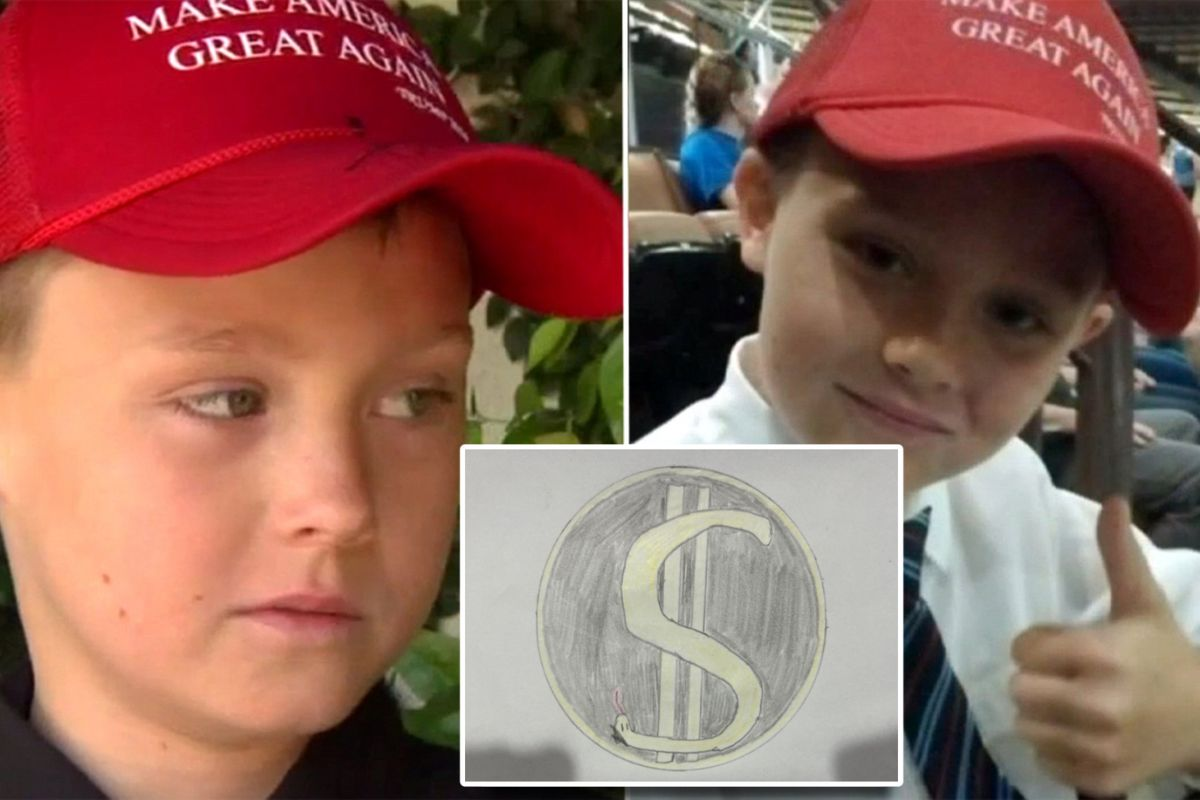
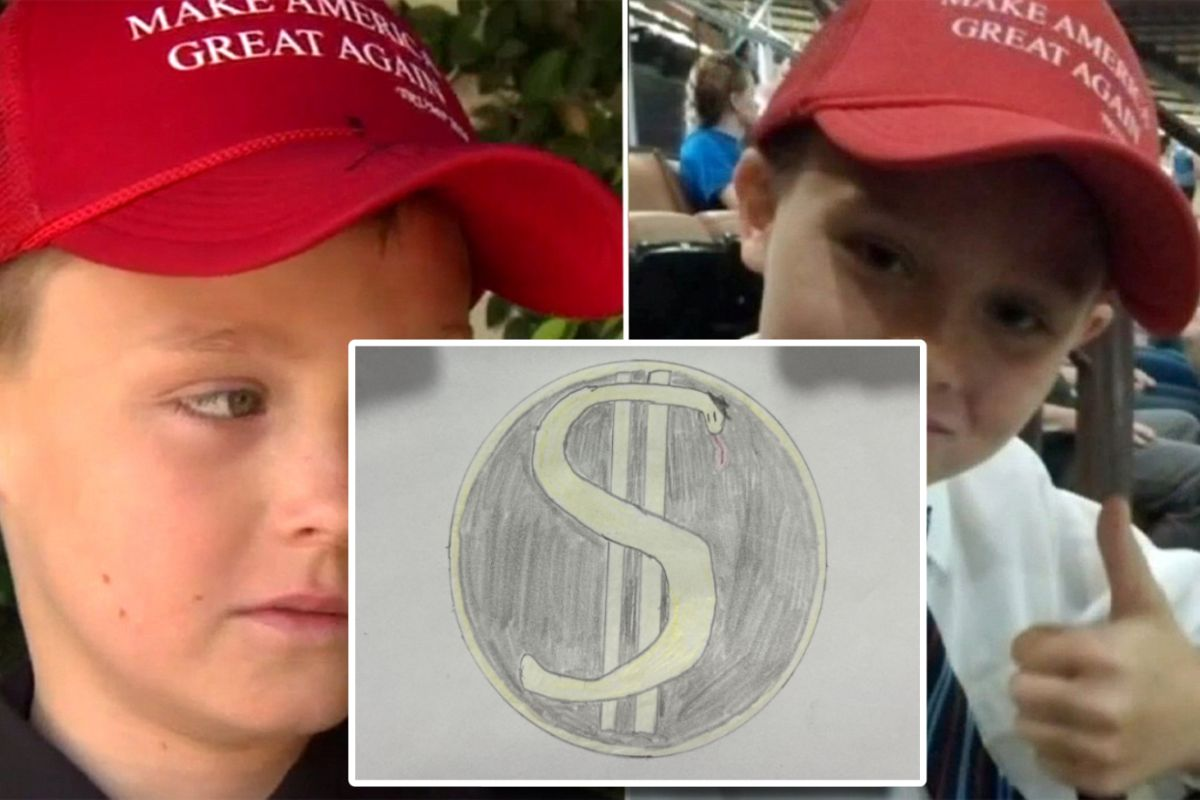
Updated files

Changed region(s): [[0.2775, 0.4062, 0.7708, 1.0]]

diff --git a/auction-for-veterans-logan-autry-drawing/index.html b/auction-for-veterans-logan-autry-drawing/index.html
@@ -556,7 +556,7 @@ gtag("config", "AW-661084922");
 
 		
 		<div class="addtoany_share_save_container addtoany_content addtoany_content_top"><div class="addtoany_header">Share this:</div><div class="a2a_kit a2a_kit_size_32 addtoany_list" data-a2a-url="index.html" data-a2a-title="California Boy Once Banned for Trump Hat Now Draws Snake Art to Support Veterans"><a class="a2a_button_facebook" href="https://www.addtoany.com/add_to/facebook?linkurl=https%3A%2F%2Fwyofile.com%2Fdebunking-the-safety-myth-circulating-at-the-wyoming-legislature%2F&amp;linkname=Debunking%20the%20%E2%80%98safety%E2%80%99%20myth%20circulating%20at%20the%20Wyoming%20Legislature" title="Facebook" rel="nofollow noopener" target="_blank"></a><a class="a2a_button_bluesky" href="https://www.addtoany.com/add_to/bluesky?linkurl=https%3A%2F%2Fwyofile.com%2Fdebunking-the-safety-myth-circulating-at-the-wyoming-legislature%2F&amp;linkname=Debunking%20the%20%E2%80%98safety%E2%80%99%20myth%20circulating%20at%20the%20Wyoming%20Legislature" title="Bluesky" rel="nofollow noopener" target="_blank"></a><a class="a2a_button_whatsapp" href="https://www.addtoany.com/add_to/whatsapp?linkurl=https%3A%2F%2Fwyofile.com%2Fdebunking-the-safety-myth-circulating-at-the-wyoming-legislature%2F&amp;linkname=Debunking%20the%20%E2%80%98safety%E2%80%99%20myth%20circulating%20at%20the%20Wyoming%20Legislature" title="WhatsApp" rel="nofollow noopener" target="_blank"></a><a class="a2a_button_facebook_messenger" href="https://www.addtoany.com/add_to/facebook_messenger?linkurl=https%3A%2F%2Fwyofile.com%2Fdebunking-the-safety-myth-circulating-at-the-wyoming-legislature%2F&amp;linkname=Debunking%20the%20%E2%80%98safety%E2%80%99%20myth%20circulating%20at%20the%20Wyoming%20Legislature" title="Messenger" rel="nofollow noopener" target="_blank"></a><a class="a2a_button_email" href="https://www.addtoany.com/add_to/email?linkurl=https%3A%2F%2Fwyofile.com%2Fdebunking-the-safety-myth-circulating-at-the-wyoming-legislature%2F&amp;linkname=Debunking%20the%20%E2%80%98safety%E2%80%99%20myth%20circulating%20at%20the%20Wyoming%20Legislature" title="Email" rel="nofollow noopener" target="_blank"></a><a class="a2a_dd addtoany_share_save addtoany_share" href="https://www.addtoany.com/share"></a></div></div>
-<p>Now 9 years old, Logan has created a new drawing that’s already stirring interest online. The simple, hand-drawn image features a curled snake stylized with a Bitcoin dollar sign, and is being auctioned off to raise money for a cause close to the young artist’s heart: helping American veterans.</p>
+<p>Now 9 years old, Logan has created a new drawing that’s already stirring interest online. The simple, hand-drawn image features a curled snake stylized with the Department of Government Efficiency (DOGE) logo, and is being auctioned off to raise money for a cause close to the young artist’s heart: helping American veterans.</p>
 
 <div class="wp-block-group alignleft is-style-border has-white-color has-primary-background-color has-text-color has-background"><div class="wp-block-group__inner-container is-layout-flow wp-block-group-is-layout-flow">
 <h3 class="has-text-align-center wp-block-heading">Story</h3>
